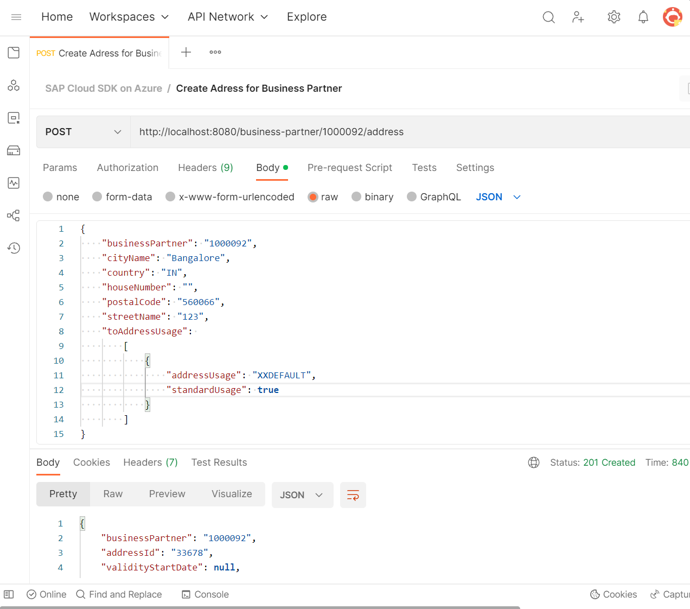
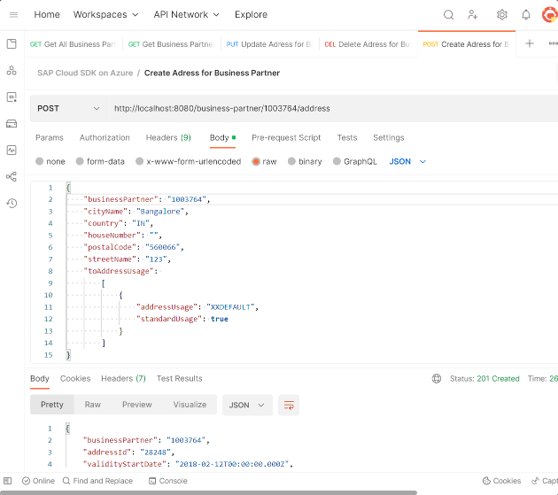
mock server example

diff --git a/README.md b/README.md
@@ -27,10 +27,15 @@ Implementations using the approach described by this repos expand the [feature s
 
 Follow the [SAP Cloud SDK documentation for JavaScript](https://sap.github.io/cloud-sdk/docs/js/tutorials/getting-started/introduction) for your project setup.
 
-Use SAP's [public demo system ES5](https://developers.sap.com/tutorials/gateway-demo-signup.html), [SAP's mock server](https://sap.github.io/cloud-s4-sdk-book/pages/mock-odata.html) or your own SAP system.
+Use either
+
+* SAP's [mock server](https://sap.github.io/cloud-s4-sdk-book/pages/mock-odata.html),
+* SAP's [public demo system ES5](https://developers.sap.com/tutorials/gateway-demo-signup.html),
+* [SAP Cloud Appliance Library](https://cal.sap.com/) or
+* your own available SAP system.
 
 > **Note**
-> Be aware that SAP's mock server is anticipating the S4 Cloud version of the Business Partner API. So, you need to adapt the mock server to your needs.
+> Be aware that SAP's mock server is anticipating the S4 Cloud version of the Business Partner API. So, you might need to adapt the mock server to your needs. During our testing at the time of release there were no discrepancies discovered.
 
 [![GitHub Codespaces](https://github.com/codespaces/badge.svg)](https://github.com/codespaces/new?hide_repo_select=true&ref=main&repo=576207479) to hit the ground running with our tailored image and avoid installing anything on your local machine and continue with step 6.
 
@@ -41,25 +46,28 @@ Use SAP's [public demo system ES5](https://developers.sap.com/tutorials/gateway-
 2. cd app-service-javascript-sap-cloud-sdk-quickstart
 3. `npm install`
 4. `npm run start:dev`
-5. browse to [http://localhost:8080](http://localhost:8080) for your hello world
+5. browse to [http://localhost:8080](http://localhost:8080) for your "hello world"
 6. maintain your SAP OData url with credentials in [.env](templates/.env) file (put in project root) and restart the app if necessary
-7. browse to [http://localhost:8080/business-partners](http://localhost:8080/business-partners) for your first OData call and pick one of the business partners that have no address
+7. browse to [http://localhost:8080/business-partner](http://localhost:8080/business-partner) for your first OData call and pick one of the business partners (examples below use ids from SAP mock server)
 
 > **Note**
 > SAP's examples for the business partner API for S4 Cloud mentioned in the tutorial **differ** to the S4 on-premises flavor. Add AddressUsage, otherwise you will see "Internal error when calling operation module BUA_CHECK_ADDRESS_VALIDITY_ALL; a check table is missing". Check SAP KBA's for more details.
 
-8. get that business partner by id: [http://localhost:8080/business-partners/1000020](http://localhost:8080/business-partners/1000020)
-9. add an address to your chosen business partner: [http://localhost:8080/business-partners/1000020/address](http://localhost:8080/business-partners/1000020/address)
+8. get that business partner by id: [http://localhost:8080/business-partner/1003764](http://localhost:8080/business-partner/1003764)
 
-![screenshot of successful business partner address creation with request details](img/bupa-create-postman.png)
+![screenshot of successful business partner retrieval by id](img/bupa-get-postman.png)
 
-10. update the address with a house number: [http://localhost:8080/business-partner/1000092/address/33678](http://localhost:8080/business-partner/1000092/address/33678)
+9. update the address with a house number: [http://localhost:8080/business-partner/1003764/address/28238](http://localhost:8080/business-partner/1003764/address/28238)
 
 ![screenshot of business partner address update with request details](img/bupa-update-postman.png)
 
-11. delete the address: [http://localhost:8080/business-partner/1000092/address/33678](http://localhost:8080/business-partner/1000092/address/33678)
+10. delete the address: [http://localhost:8080/business-partner/1003764/address/28238](http://localhost:8080/business-partner/1003764/address/28238)
 
 ![screenshot of business partner address delete](img/bupa-delete-postman.png)
+
+11. add an address to your chosen business partner: [http://localhost:8080/business-partner/1003764/address](http://localhost:8080/business-partner/1003764/address)
+
+![screenshot of successful business partner address creation with request details](img/bupa-create-postman.png)
 
 Congratulations🥳, you have successfully consumed SAP OData with the SAP Cloud SDK for JavaScript running on Azure App Service!
 
@@ -99,7 +107,7 @@ VNet integration enables your app to securely access resources in your VNet, suc
 
 * [Access SAP Gateway logs in /IWFND/ERROR_LOG](https://wiki.scn.sap.com/wiki/display/ABAPConn/SAP+Gateway+Error+Log)
 * [Azure App Service diagnostics](https://docs.microsoft.com/azure/app-service/troubleshoot-diagnostic-logs)
-* Use Kudu SSH console from VNet integrated App Service to check connectivity to SAP Gateway with `curl https://<your domain>:<your https port>/sap/opu/odata/sap/API_BUSINESS_PARTNER -u "<user>:<password>"`
+* Use [Kudu SSH console](https://learn.microsoft.com/azure/app-service/resources-kudu) from VNet integrated App Service to check connectivity to SAP Gateway with `curl https://<your domain>:<your https port>/sap/opu/odata/sap/API_BUSINESS_PARTNER -u "<user>:<password>"`
 * [Azure API Management Request tracing](https://learn.microsoft.com/azure/api-management/api-management-howto-api-inspector)
 * [Azure API Management Gateway logs](https://learn.microsoft.com/azure/api-management/api-management-howto-use-azure-monitor#view-diagnostic-data-in-azure-monitor)
 
